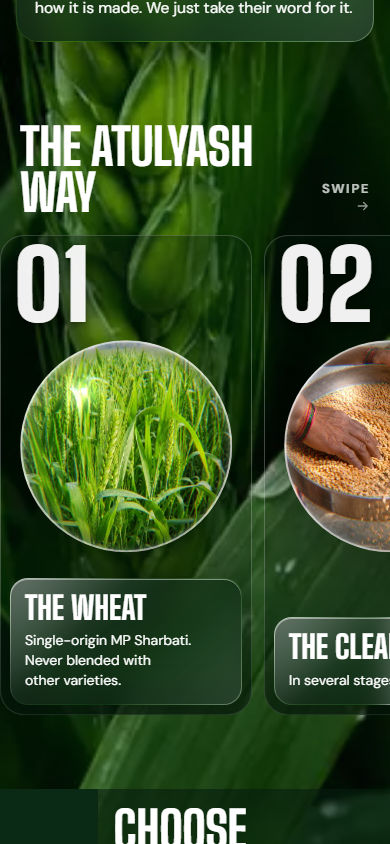
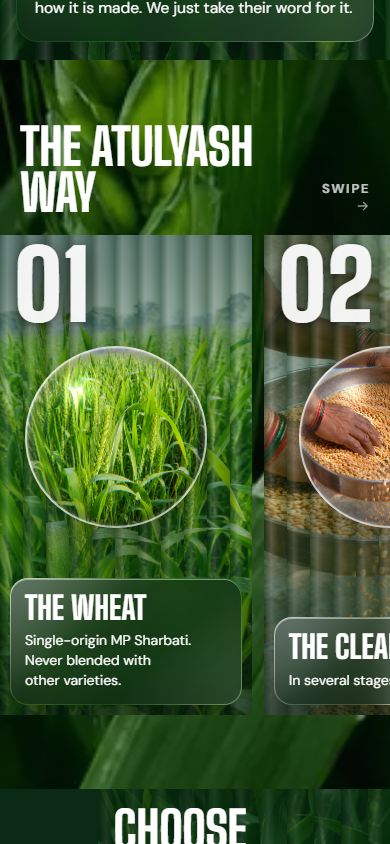
5 Lens: keep the fluted strips everywhere, a clear lens replaces only the clear slot

diff --git a/blends/5-lens/index.html b/blends/5-lens/index.html
@@ -11,7 +11,7 @@
 <link rel="stylesheet" href="https://fonts.googleapis.com/css2?family=Big+Shoulders+Display:wght@600..900&family=DM+Sans:opsz,wght@9..40,400..700&display=swap">
 <link rel="stylesheet" href="../glass.css">
 <style>
-/* 5 Lens. The sharp wheat wall, with one thick clear lens onto the kitchen wherever 5 Reeded had fluted glass.
+/* 5 Lens. Green fluted glass bends the wheat wall; a thick clear lens, set into the fluting, looks through into the kitchen.
    A full-height yellow column runs down the left like a painted kitchen pillar, and comes back as the pack selector. */
 :root{--glass:rgba(22,92,44,.30);--sun:#FFCF39;--ink:#0B2A16;--col:25%;--g:16px}
 *{box-sizing:border-box}
@@ -23,15 +23,13 @@ h1,h2,h3{margin:0;font-family:"Big Shoulders Display",Impact,sans-serif;font-wei
 h2{font-size:clamp(46px,13vw,72px)}
 .k{font:700 13px/1.3 "DM Sans";letter-spacing:.12em;text-transform:uppercase}
 
-/* a thick clear lens takes the place of the fluted glass: the wheat wall stays sharp around it,
-   and the photo sits inside, magnified in the middle and bent at the rim */
-.lens{position:absolute;z-index:1;aspect-ratio:1;border-radius:50%;filter:drop-shadow(0 24px 36px rgba(0,0,0,.42))}
-.lens img{width:100%;height:100%;border-radius:50%}
-.lens::after{content:"";position:absolute;inset:0;border-radius:50%;pointer-events:none;box-shadow:inset 0 0 0 2px rgba(255,255,255,.55),inset -10px -14px 30px rgba(0,0,0,.22),inset 10px 12px 26px rgba(255,255,255,.16)}
-.hero .lens{left:50%;top:57%;width:min(86%,330px);transform:translate(-50%,-50%)}
-.mani .lens{right:var(--g);top:56px;width:min(64%,300px)}
-.panel .lens{left:50%;top:44%;width:84%;transform:translate(-50%,-50%)}
-.close .lens{left:var(--g);top:40px;width:min(62%,290px)}
+/* fluted glass, built by script: narrow strips that each magnify their slice of the picture behind */
+.reed{position:absolute;inset:0;overflow:hidden}
+.reed .f{position:absolute;top:0;bottom:0;background-repeat:no-repeat;filter:blur(.6px) saturate(1.1)}
+.reed .f::after{content:"";position:absolute;inset:0;background:linear-gradient(90deg,rgba(0,30,10,.30),rgba(255,255,255,.18) 30%,rgba(255,255,255,0) 55%,rgba(0,30,10,.34)),var(--glass)}
+.reed .lens{position:absolute;z-index:1;aspect-ratio:1;border-radius:50%;filter:drop-shadow(0 22px 34px rgba(0,0,0,.45))}
+.reed .lens img{width:100%;height:100%;border-radius:50%}
+.reed .lens::after{content:"";position:absolute;inset:0;border-radius:50%;box-shadow:inset 0 0 0 2px rgba(255,255,255,.6),inset -10px -14px 30px rgba(0,0,0,.22),inset 10px 12px 26px rgba(255,255,255,.18)}
 .shade{position:absolute;inset:0;z-index:1;pointer-events:none;background:linear-gradient(180deg,rgba(6,30,14,.62),rgba(6,30,14,0) 38%,rgba(6,30,14,0) 62%,rgba(6,30,14,.7))}
 .plate{border-radius:22px}
 
@@ -63,7 +61,7 @@ h2{font-size:clamp(46px,13vw,72px)}
 .ph span{opacity:.75;text-align:right}
 .track{display:flex;gap:12px;overflow-x:auto;scroll-snap-type:x mandatory;padding:0 20px 10px;scrollbar-width:none}
 .track::-webkit-scrollbar{display:none}
-.panel{position:relative;flex:0 0 72%;height:480px;scroll-snap-align:start;overflow:hidden;border-radius:24px;box-shadow:inset 0 0 0 1px rgba(255,255,255,.28)}
+.panel{position:relative;flex:0 0 72%;height:480px;scroll-snap-align:start;overflow:hidden}
 .panel .shade{background:linear-gradient(180deg,rgba(6,30,14,.35),transparent 30%,transparent 55%,rgba(6,30,14,.6))}
 .panel .n{text-shadow:0 2px 6px rgba(0,0,0,.35),0 4px 26px rgba(0,0,0,.55);position:absolute;z-index:2;top:12px;left:14px;font:900 96px/.8 "Big Shoulders Display";color:rgba(255,255,255,.94)}
 .panel .t{position:absolute;z-index:2;left:10px;right:10px;bottom:10px;padding:14px;border-radius:18px}
@@ -96,9 +94,6 @@ form label{display:block}
 .foot span:last-child{font:600 13px/1.4 "DM Sans";letter-spacing:.1em;text-align:right;opacity:.75}
 
 @media (min-width:900px){
-  .hero .lens{left:auto;right:6%;top:46%;transform:translateY(-50%);width:min(34vw,440px)}
-  .mani .lens{right:auto;left:var(--g);top:60px;width:420px}
-  .close .lens{top:60px;width:400px}
   :root{--col:clamp(180px,18%,260px);--g:40px}
   .hero h1{font-size:120px;max-width:9ch;top:90px;left:40px}
   .hero .bottom{left:auto;width:420px;right:30px;bottom:30px}
@@ -121,7 +116,7 @@ form label{display:block}
     <a class="round" href="#packs">See<br>packs</a>
   </aside>
   <div class="view">
-    <div class="lens"><img src="../img/lens/kitchen-steam.webp" alt="Rotis cooking on a tawa, seen through a round glass lens" width="720" height="720"></div>
+    <div class="reed" data-img="../img/glass-bg.webp" data-lens="kitchen-steam" data-ly="0.56" data-clear="0.40,0.82" data-pos="0.8" role="img" aria-label="Wheat seen through green fluted glass, with a round clear lens onto rotis cooking on a tawa"></div>
     <div class="shade"></div>
     <header class="bar">
       <a class="name" href="#top">Atulyash</a>
@@ -133,7 +128,7 @@ form label{display:block}
 </section>
 
 <section class="mani" aria-labelledby="mani-h">
-  <div class="lens" aria-hidden="true"><img src="../img/lens/thali-hands.webp" alt="" width="720" height="720" loading="lazy"></div>
+  <div class="reed" data-img="../img/glass-bg.webp" data-lens="thali-hands" data-ly="0.3" data-clear="0.62,0.92" data-pos="0.3" aria-hidden="true"></div>
   <div class="plate gl dense">
     <h2 id="mani-h">We question everything. Why not atta?</h2>
     <p>We keep changing everything around us. Our skincare, our cooking oil, even our utensils, because we research what is best for our family. So why don't we stop and think about our atta? Its quality, where it comes from, how it is made. We just take their word for it.</p>
@@ -143,12 +138,12 @@ form label{display:block}
 <section class="panels" aria-labelledby="way-h">
   <div class="ph"><h2 id="way-h">The Atulyash way</h2><span class="k">Swipe<br><span class="arr" aria-hidden="true"></span></span></div>
   <div class="track" tabindex="0" aria-label="Six steps, scroll sideways">
-    <div class="panel"><div class="lens" aria-hidden="true"><img src="../img/lens/field-day.webp" alt="" width="720" height="720" loading="lazy"></div><div class="shade"></div><span class="n">01</span><div class="t gl dense"><b>The wheat</b><p>Single-origin MP Sharbati. Never blended with other varieties.</p></div></div>
-    <div class="panel"><div class="lens" aria-hidden="true"><img src="../img/lens/cleaning.webp" alt="" width="720" height="720" loading="lazy"></div><div class="shade"></div><span class="n">02</span><div class="t gl dense"><b>The cleaning</b><p>In several stages.</p></div></div>
-    <div class="panel"><div class="lens" aria-hidden="true"><img src="../img/lens/chakki-flour.webp" alt="" width="720" height="720" loading="lazy"></div><div class="shade"></div><span class="n">03</span><div class="t gl dense"><b>The stone</b><p>Natural stone chakkis. No emery stone, no steel rollers.</p></div></div>
-    <div class="panel"><div class="lens" aria-hidden="true"><img src="../img/lens/packing.webp" alt="" width="720" height="720" loading="lazy"></div><div class="shade"></div><span class="n">04</span><div class="t gl dense"><b>The packing</b><p>Packed with minimal handling.</p></div></div>
-    <div class="panel"><div class="lens" aria-hidden="true"><img src="../img/lens/phulka-tawa.webp" alt="" width="720" height="720" loading="lazy"></div><div class="shade"></div><span class="n">05</span><div class="t gl dense"><b>The milling day</b><p>Milled in small batches the day before, delivered the next morning.</p></div></div>
-    <div class="panel"><div class="lens" aria-hidden="true"><img src="../img/lens/rider.webp" alt="" width="720" height="720" loading="lazy"></div><div class="shade"></div><span class="n">06</span><div class="t gl dense"><b>The riders</b><p>We deliver with our own riders.</p></div></div>
+    <div class="panel"><div class="reed" data-img="../img/field-day.webp" data-lens="field-day" data-ly="0.42" data-clear="0.3,0.62"></div><div class="shade"></div><span class="n">01</span><div class="t gl dense"><b>The wheat</b><p>Single-origin MP Sharbati. Never blended with other varieties.</p></div></div>
+    <div class="panel"><div class="reed" data-img="../img/cleaning.webp" data-lens="cleaning" data-ly="0.42" data-clear="0.34,0.66"></div><div class="shade"></div><span class="n">02</span><div class="t gl dense"><b>The cleaning</b><p>In several stages.</p></div></div>
+    <div class="panel"><div class="reed" data-img="../img/chakki-flour.webp" data-lens="chakki-flour" data-ly="0.42" data-clear="0.35,0.7"></div><div class="shade"></div><span class="n">03</span><div class="t gl dense"><b>The stone</b><p>Natural stone chakkis. No emery stone, no steel rollers.</p></div></div>
+    <div class="panel"><div class="reed" data-img="../img/packing.webp" data-lens="packing" data-ly="0.42" data-clear="0.3,0.62"></div><div class="shade"></div><span class="n">04</span><div class="t gl dense"><b>The packing</b><p>Packed with minimal handling.</p></div></div>
+    <div class="panel"><div class="reed" data-img="../img/phulka-tawa.webp" data-lens="phulka-tawa" data-ly="0.42" data-clear="0.3,0.66"></div><div class="shade"></div><span class="n">05</span><div class="t gl dense"><b>The milling day</b><p>Milled in small batches the day before, delivered the next morning.</p></div></div>
+    <div class="panel"><div class="reed" data-img="../img/rider.webp" data-lens="rider" data-ly="0.42" data-clear="0.36,0.7"></div><div class="shade"></div><span class="n">06</span><div class="t gl dense"><b>The riders</b><p>We deliver with our own riders.</p></div></div>
   </div>
 </section>
 
@@ -159,7 +154,7 @@ form label{display:block}
     <button class="seg" data-kg="6" aria-pressed="false">6 kg<small>₹720</small></button>
   </aside>
   <div class="view">
-    
+    <div class="reed" data-img="../img/glass-bg.webp" data-clear="-1,-1" aria-hidden="true"></div>
     <div class="shade"></div>
     <div class="tt"><h2 id="packs-h">Choose<br>your pack</h2><p>₹120 a kg, about ₹3.60 a roti.</p></div>
     <img class="pk" loading="lazy" src="../img/pack.webp" alt="Atulyash 2 kg pack" width="900" height="1334">
@@ -168,7 +163,7 @@ form label{display:block}
 </section>
 
 <section class="close" id="pin" aria-labelledby="close-h">
-  <div class="lens" aria-hidden="true"><img src="../img/lens/roti-cloth.webp" alt="" width="720" height="720" loading="lazy"></div>
+  <div class="reed" data-img="../img/glass-bg.webp" data-lens="roti-cloth" data-ly="0.26" data-clear="0.08,0.36" data-pos="0.5" aria-hidden="true"></div>
   <div class="plate gl dense">
     <h2 id="close-h">Bring home atta in its purest form.</h2>
     <form data-pin novalidate>
@@ -182,5 +177,22 @@ form label{display:block}
 </main>
 <footer class="foot"><span>Freshly milled.<br>Delivered weekly.</span><span>Delhi NCR</span></footer>
 <script src="../core.js"></script>
+<script>
+(function(){
+function build(el){var src=el.dataset.img,ln=el.dataset.lens,ly=parseFloat(el.dataset.ly||'0.45'),cl=(el.dataset.clear||'-1,-1').split(',').map(Number),px=parseFloat(el.dataset.pos||'0.5');var im=new Image();im.onload=function(){
+  var W=el.clientWidth,H=el.clientHeight;if(!W||!H)return;el.innerHTML='';
+  var s=Math.max(W/im.naturalWidth,H/im.naturalHeight),bw=im.naturalWidth*s,bh=im.naturalHeight*s,ox=(bw-W)*px,oy=(bh-H)/2;
+  var w=Math.max(14,Math.round(W/11)),n=Math.ceil(W/w),m=1.45,frag=document.createDocumentFragment();
+  for(var i=0;i<n;i++){var x0=i*w,c=x0+w/2;
+    var d=document.createElement('div'),cx=(c+ox)*m;d.className='f';d.style.left=x0+'px';d.style.width=(w+1)+'px';
+    d.style.backgroundImage='url('+src+')';d.style.backgroundSize=(bw*m)+'px '+bh+'px';d.style.backgroundPosition=(-(cx-w/2))+'px '+(-oy)+'px';frag.appendChild(d)}
+  if(ln&&cl[0]>=0){var D=Math.min(Math.max((cl[1]-cl[0])*W*1.5,W*.72),W*.9,H*.6),x=Math.min(Math.max((cl[0]+cl[1])/2*W,D/2+8),W-D/2-8),y=Math.max(ly*H,D/2+8);
+    if(W>700){D=Math.min(W*.34,H*.5);x=Math.min(Math.max((cl[0]+cl[1])/2*W,W*.7),W-D/2-24);y=Math.max(Math.min(ly,.42)*H,D/2+24)}
+    var L=document.createElement('div');L.className='lens';L.style.width=D+'px';L.style.left=(x-D/2)+'px';L.style.top=(y-D/2)+'px';
+    L.innerHTML='<img src="../img/lens/'+ln+'.webp" alt="" width="720" height="720">';frag.appendChild(L)}
+  el.appendChild(frag)};im.src=src}
+var all=[].slice.call(document.querySelectorAll('.reed'));function run(){all.forEach(build)}run();var t,lw=innerWidth;addEventListener('resize',function(){if(innerWidth===lw)return;lw=innerWidth;clearTimeout(t);t=setTimeout(run,150)});
+})();
+</script>
 </body>
 </html>
